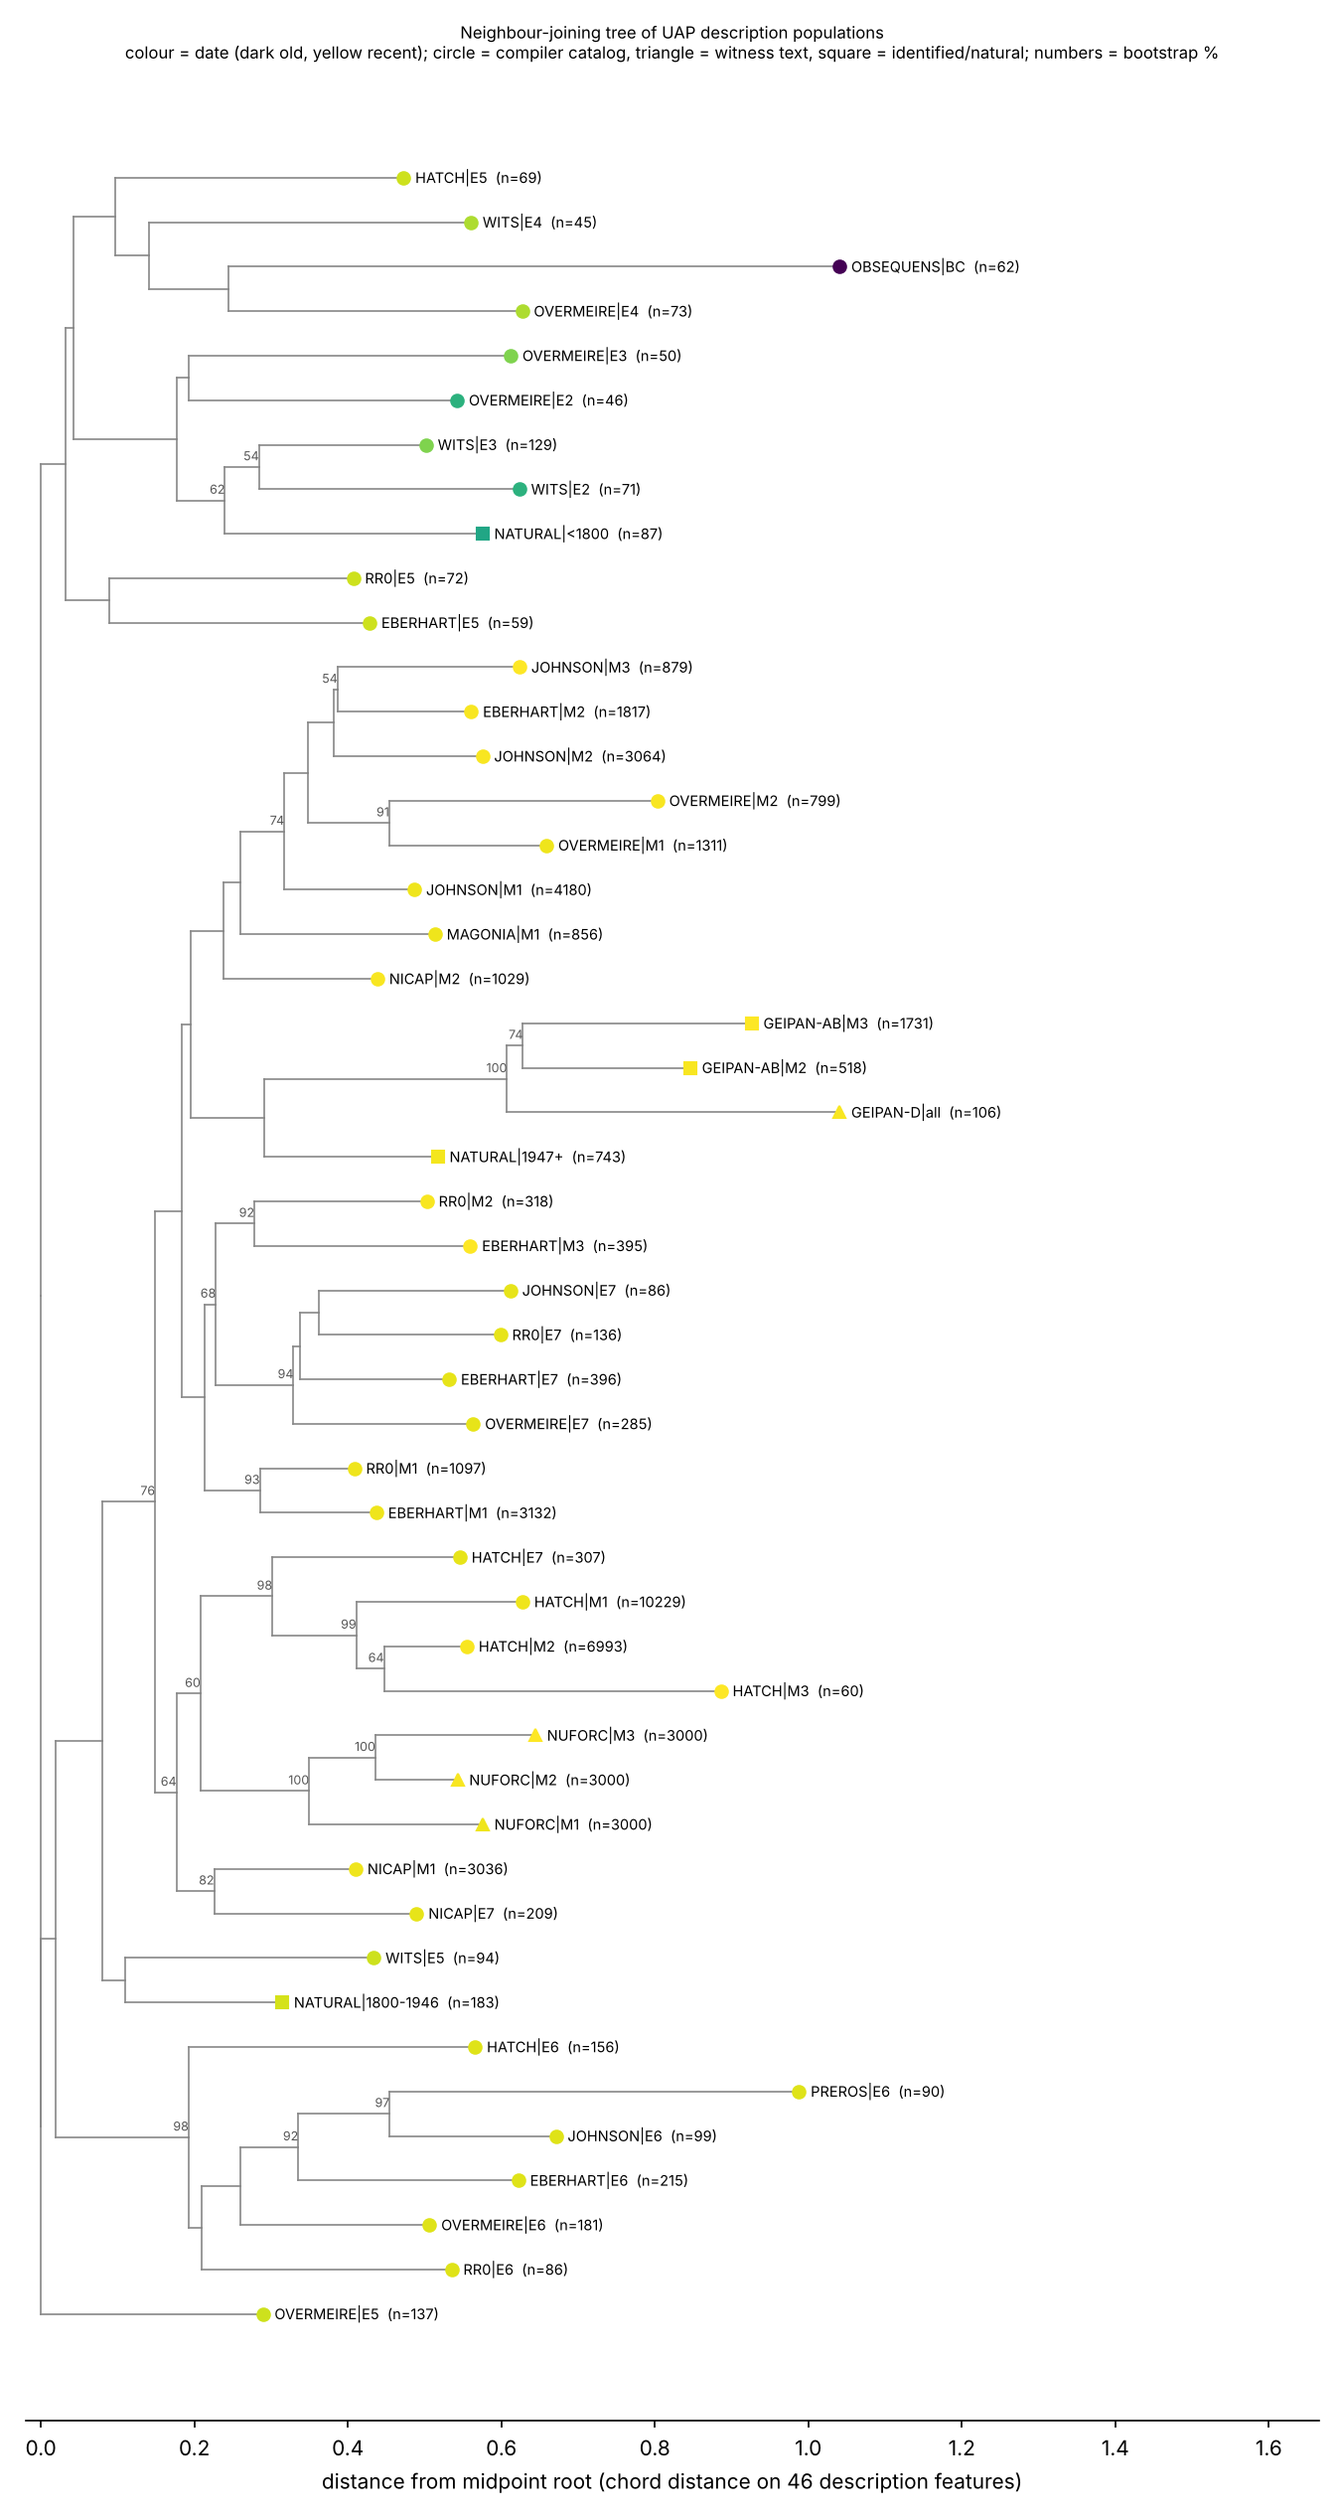
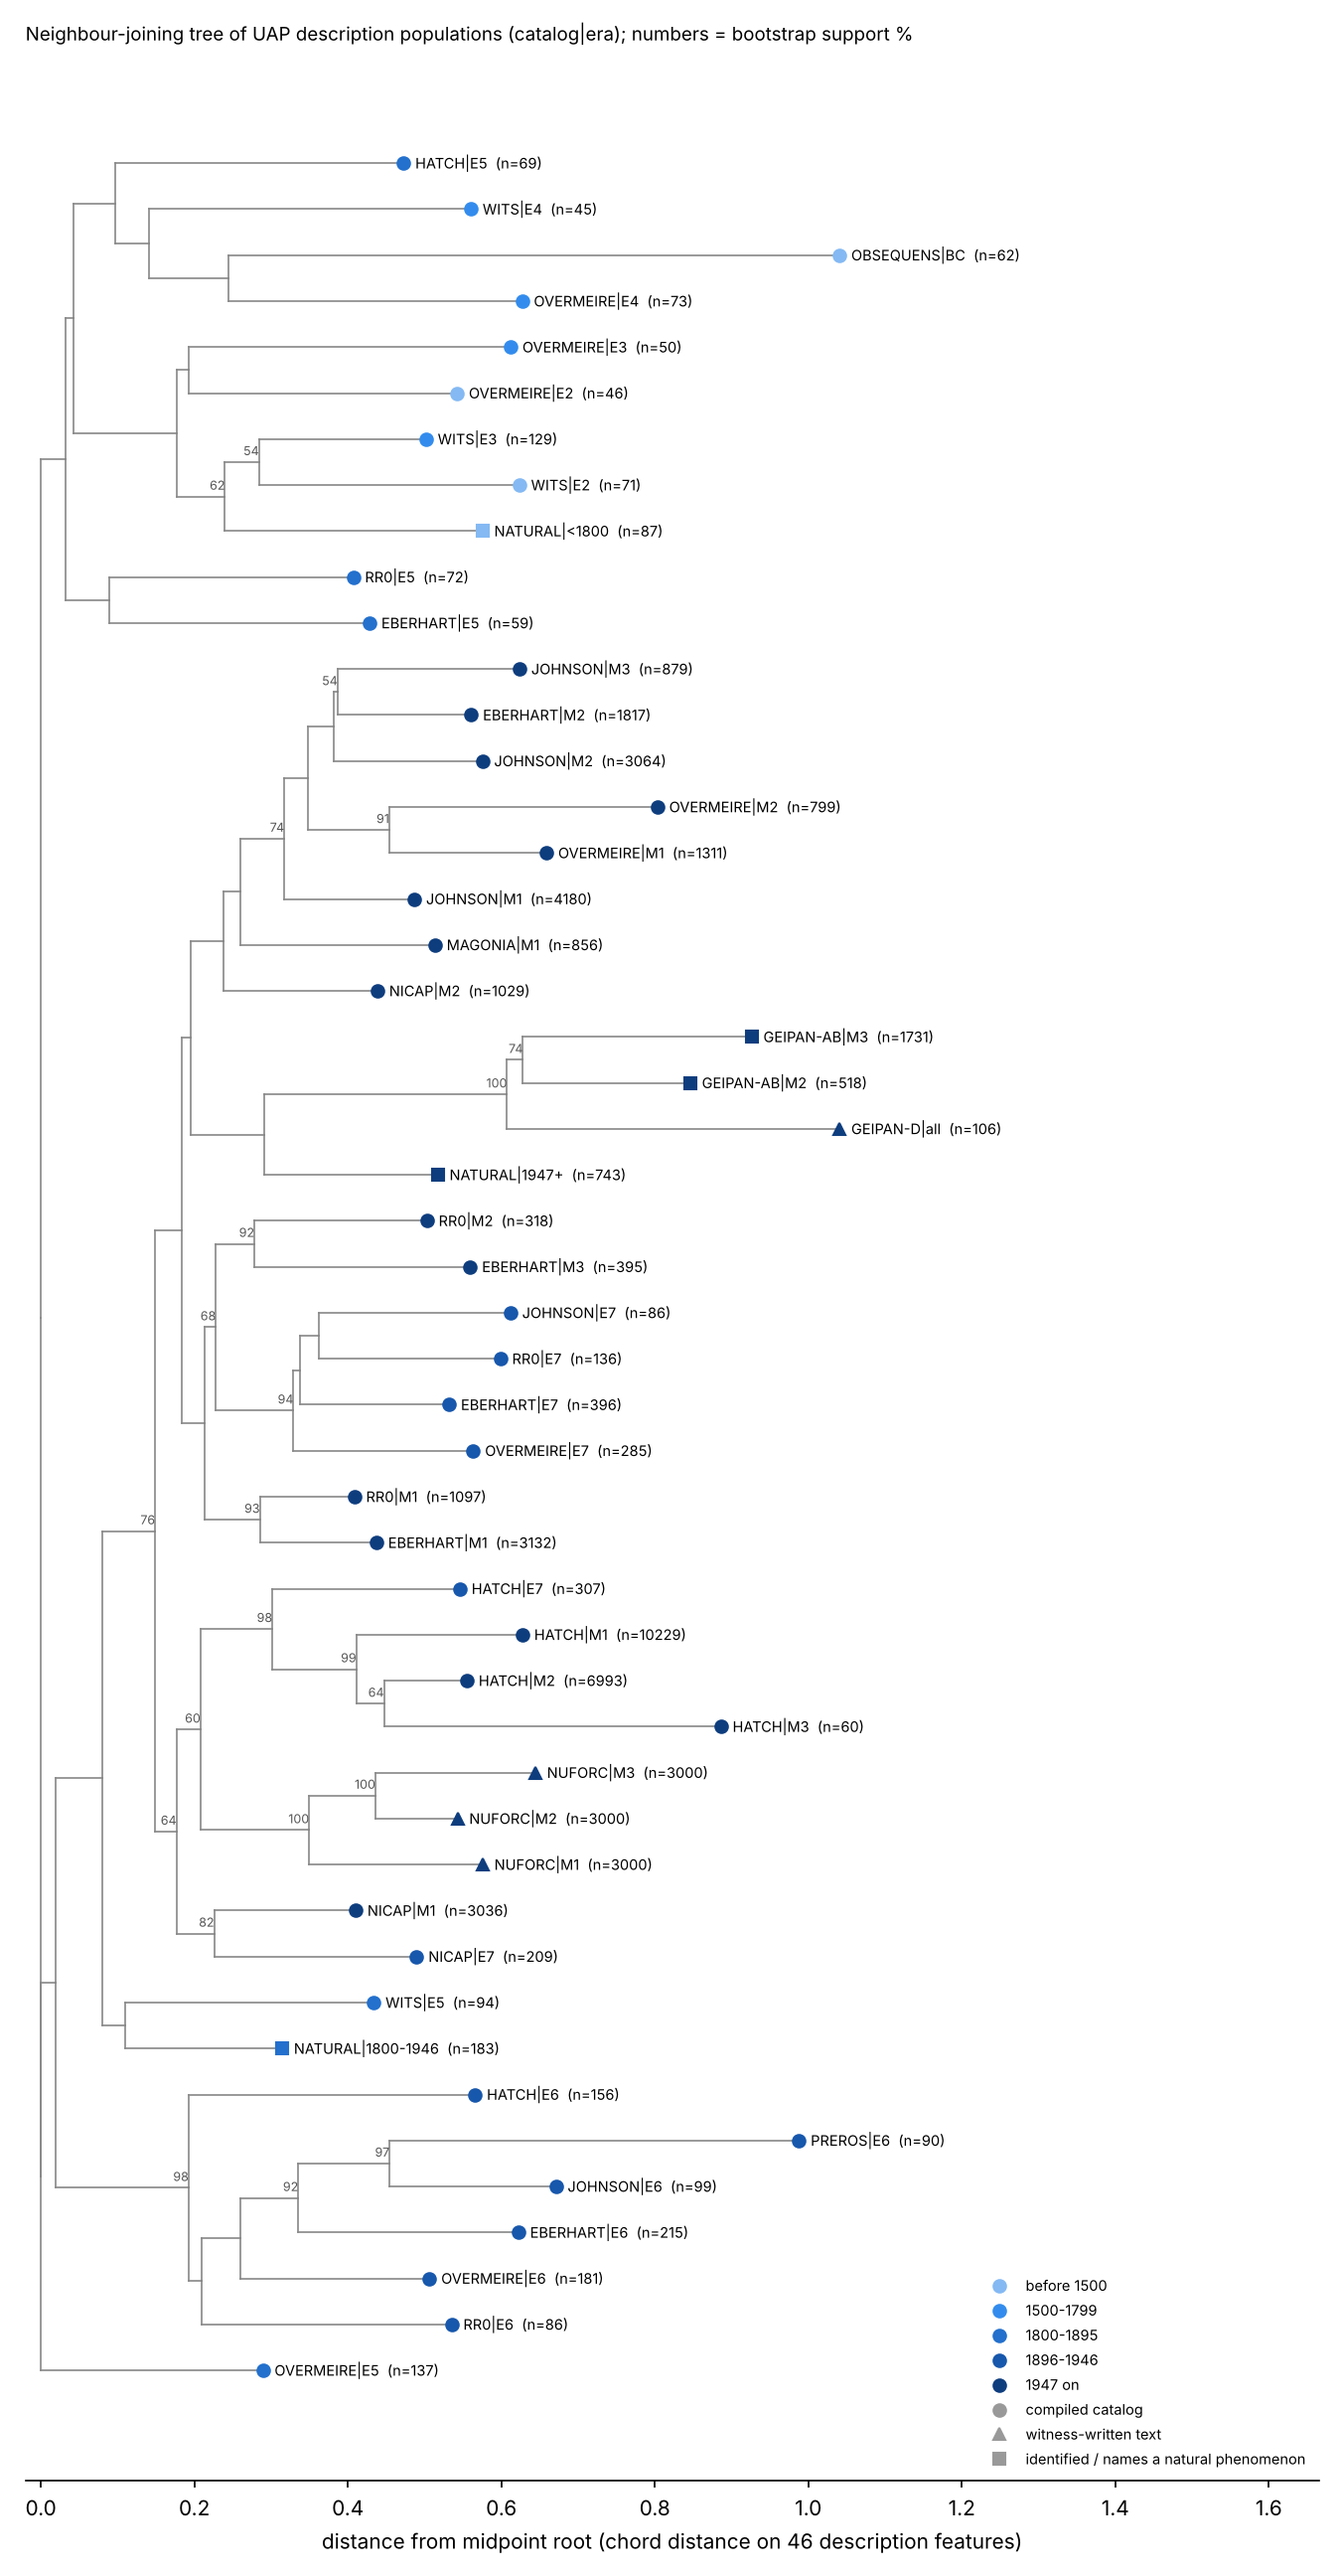
omega/deeptime: figures (convergence map, drift forest, technology words, shapes by decade, tree)
Claude-Session: https://claude.ai/code/session_011NzXvtVqgf9EMHsZNktDyy

diff --git a/omega/deeptime/figures.py b/omega/deeptime/figures.py
@@ -1,0 +1,163 @@
+"""Figures for the deep-time report (static PNG, light surface). Reads drift.json and tech.json from
+data/processed/deeptime and the corpus for the decade series. Colours: categorical slots 1-2 of the
+validated default palette (blue #257de0, orange #f47230), sequential/ordinal blue ramp; checked with the
+dataviz validator. Orange sits below 3:1 on white, so every orange series is also labelled in the legend.
+"""
+import collections, json, math, os, sys
+import numpy as np
+import matplotlib
+matplotlib.use('Agg')
+import matplotlib.pyplot as plt
+from matplotlib.colors import LinearSegmentedColormap
+sys.path.insert(0, os.path.dirname(os.path.abspath(__file__)))
+from common import load, P, ROOT, ERA_NAMES, CATALOGS  # noqa: E402
+from lexicon import PHYS, OLD_FRAMES, TECH_FRAMES, ENTITY_F  # noqa: E402
+
+BLUE, ORANGE, INK, INK2, GRID = '#257de0', '#f47230', '#191919', '#666666', '#e6e6e6'
+SEQ = LinearSegmentedColormap.from_list('blue', ['#ffffff', '#cce3fd', '#84b9f3', '#338ced', '#2370cd', '#1757ac', '#0e3d7e'])
+FIG = os.path.join(ROOT, 'omega', 'reports', 'figures')
+os.makedirs(FIG, exist_ok=True)
+plt.rcParams.update({'font.size': 8, 'axes.edgecolor': INK2, 'axes.labelcolor': INK, 'xtick.color': INK2, 'ytick.color': INK2,
+                     'axes.titlesize': 9, 'axes.titlecolor': INK, 'legend.frameon': False})
+drift = json.load(open(os.path.join(P, 'drift.json')))
+tech = json.load(open(os.path.join(P, 'tech.json')))
+LABEL = {'f_celestial': 'like a star/moon/sun', 'f_comet': 'comet', 'f_martial': 'shields/swords/armies', 'f_religious': 'cross/angel/omen',
+         'f_creature': 'dragon/serpent/bird', 'f_maritime': 'ship/boat/vessel', 'f_torch': 'torch/firebrand', 'f_wheel': 'wheel/chariot',
+         'f_balloon': 'balloon', 'f_airship': 'airship/searchlight', 'f_aircraft': 'aircraft/plane', 'f_rocket': 'rocket',
+         'f_saucer': 'saucer', 'f_space': 'spaceship/alien', 'f_satellite': 'satellite', 'f_starlink': 'Starlink/satellite train',
+         'f_drone': 'drone', 'f_lantern': 'lantern', 'e_occupant': 'occupants/beings', 'e_effect': 'heat/smell/paralysis',
+         'size_large': 'large', 'size_small': 'small', 'red_orange': 'red/orange', 'green_blue': 'green/blue'}
+
+
+def lab(f):
+    return LABEL.get(f, f)
+
+
+# 1 ---------------------------------------------------------------- temporal convergence map
+rows = (['f_celestial', 'f_religious', 'f_martial', 'f_creature', 'f_maritime', 'f_torch', 'f_wheel', 'fireball'] +
+        ['f_balloon', 'f_airship', 'f_aircraft', 'f_saucer', 'f_space'] +
+        ['disc', 'cigar', 'sphere', 'oval', 'triangle', 'metallic', 'formation'] +
+        ['light', 'glow', 'beam', 'flashing', 'red_orange', 'white', 'hover', 'fast', 'erratic', 'vanish', 'silent', 'landing', 'e_occupant'])
+std = drift['standardised_prevalence']
+eras = [e for e in ERA_NAMES if e in std['disc']]
+M = np.array([[std[f][e] for e in eras] for f in rows])
+Mn = M / M.max(1, keepdims=True)
+fig, ax = plt.subplots(figsize=(8.6, 9.2))
+ax.imshow(Mn, cmap=SEQ, aspect='auto', vmin=0, vmax=1)
+for i in range(len(rows)):
+    for j in range(len(eras)):
+        v = 100 * M[i, j]
+        ax.text(j, i, f'{v:.0f}' if v >= 1 else f'{v:.1f}', ha='center', va='center', fontsize=6.5,
+                color='#ffffff' if Mn[i, j] > 0.6 else INK)
+ax.set_xticks(range(len(eras)))
+ax.set_xticklabels([e.replace(' ', '\n', 1) for e in eras], fontsize=7)
+ax.set_yticks(range(len(rows)))
+ax.set_yticklabels([lab(f) for f in rows], fontsize=7.5)
+for y in (7.5, 12.5, 19.5):
+    ax.axhline(y, color='#ffffff', lw=3)
+ax.set_title('Temporal convergence map: % of unexplained reports using each descriptor, by era\n'
+             '(standardised to the same mix of nine catalogs; shading = share of the row\'s maximum)', loc='left')
+ax.tick_params(length=0)
+for s in ax.spines.values():
+    s.set_visible(False)
+fig.tight_layout()
+fig.savefig(os.path.join(FIG, 'deeptime_convergence_map.png'), dpi=150)
+plt.close(fig)
+
+# 2 ---------------------------------------------------------------- ancient vs modern odds ratios (forest)
+ORu = drift['ancient_vs_modern_adjusted_OR']['OR']
+ORn = drift['ancient_vs_modern_MH_OR']['natural']
+feats = [f for f in PHYS + OLD_FRAMES + ['f_balloon', 'f_airship', 'f_aircraft', 'f_saucer'] + ENTITY_F
+         if ORu.get(f) and ORu[f][0] == ORu[f][0]]
+feats.sort(key=lambda f: ORu[f][0])
+fig, ax = plt.subplots(figsize=(6.4, 0.2 * len(feats) + 1.4))
+ys = np.arange(len(feats))
+for k, (src, col, off, name) in enumerate(((ORu, BLUE, -0.15, 'unexplained reports (length-adjusted, within catalog)'),
+                                          (ORn, ORANGE, 0.15, 'reports naming a natural phenomenon (Mantel-Haenszel)'))):
+    xs, lo, hi, yy = [], [], [], []
+    for i, f in enumerate(feats):
+        o = src.get(f)
+        if o and o[0] == o[0] and o[1] > 0 and math.isfinite(o[2]):
+            xs.append(o[0]); lo.append(o[1]); hi.append(min(o[2], 200)); yy.append(i + off)
+    ax.hlines(yy, lo, hi, color=col, lw=1.4)
+    ax.plot(xs, yy, 'o', color=col, ms=4.5, label=name, markeredgecolor='#ffffff', markeredgewidth=0.8)
+ax.axvspan(0.5, 2.0, color='#f2f2f2', zorder=0)
+ax.axvline(1, color=INK2, lw=0.8)
+ax.set_xscale('log')
+ax.set_xlim(0.02, 60)
+ax.set_yticks(ys); ax.set_yticklabels([lab(f) for f in feats])
+ax.set_xlabel('odds ratio, before 1800 vs after 1947 (log scale; grey band 0.5-2 = "stable")')
+ax.set_title('Which descriptors drifted over 2,000 years?\nleft of 1 = more common in modern reports, right = more common before 1800', loc='left')
+ax.grid(axis='x', color=GRID, lw=0.6)
+ax.legend(loc='lower right', fontsize=7)
+for s in ('top', 'right'):
+    ax.spines[s].set_visible(False)
+fig.tight_layout()
+fig.savefig(os.path.join(FIG, 'deeptime_ancient_vs_modern.png'), dpi=150)
+plt.close(fig)
+
+# 3 ---------------------------------------------------------------- technology words vs the year the technology appeared
+FEATS, R = load()
+CAT = [r for r in R if r['cat'] in CATALOGS and not r['natural']]
+NUF = [r for r in R if r['cat'] == 'NUFORC_MODERN']
+
+
+def series(rs, f, y0, y1, step):
+    by = collections.defaultdict(lambda: [0, 0])
+    for r in rs:
+        if y0 <= r['year'] < y1:
+            b = by[(r['year'] - y0) // step * step + y0]
+            b[0] += 1; b[1] += f in r['fs']
+    xs = sorted(k for k, v in by.items() if v[0] >= 30)
+    return xs, [1000 * by[x][1] / by[x][0] for x in xs]
+
+
+panels = [('f_balloon', 1700, 1950, 10), ('f_airship', 1800, 1960, 10), ('f_aircraft', 1850, 2010, 10), ('f_saucer', 1900, 2010, 5),
+          ('f_satellite', 1930, 2024, 5), ('f_drone', 1995, 2024, 1), ('f_starlink', 2005, 2024, 1)]
+fig, axs = plt.subplots(len(panels), 1, figsize=(6.4, 1.45 * len(panels) + 0.6))
+for ax, (f, y0, y1, st) in zip(axs, panels):
+    t0 = tech['A_tech_frames'][f]['t0']
+    x, y = series(CAT, f, y0, y1, st)
+    ax.plot([v + st / 2 for v in x], y, '-', color=BLUE, lw=2, label='compiled catalogs')
+    if y0 >= 1930:
+        x2, y2 = series(NUF, f, max(y0, 1950), y1, st)
+        ax.plot([v + st / 2 for v in x2], y2, '-', color=ORANGE, lw=2, label='NUFORC witness reports')
+    ax.axvline(t0, color=INK, lw=0.9, ls='--')
+    ax.text(t0, ax.get_ylim()[1] * 0.92, f' {t0}', fontsize=7, color=INK, va='top')
+    ax.set_ylabel('per 1,000', fontsize=7)
+    ax.set_title(f'"{lab(f)}": first public appearance {t0} ({tech["A_tech_frames"][f]["event"].split(";")[0].split("(")[0].strip()})',
+                 loc='left', fontsize=8)
+    ax.grid(axis='y', color=GRID, lw=0.6)
+    for s in ('top', 'right'):
+        ax.spines[s].set_visible(False)
+axs[0].legend(loc='upper left', fontsize=7)
+axs[-2].legend(loc='upper left', fontsize=7)
+fig.suptitle('Technology words in UAP reports switch on when the technology appears', x=0.02, ha='left', fontsize=10)
+fig.tight_layout()
+fig.savefig(os.path.join(FIG, 'deeptime_tech_frames.png'), dpi=150)
+plt.close(fig)
+
+# 4 ---------------------------------------------------------------- shapes by decade, one compiler vs witnesses
+B = tech['B_congruent_by_decade']
+shp = [('cigar', 'cigar/cylinder'), ('beam', 'beam/searchlight'), ('disc', 'disc/saucer'), ('triangle', 'triangle'),
+       ('sphere', 'sphere/orb'), ('formation', 'formation/line')]
+fig, axs = plt.subplots(2, 3, figsize=(8.6, 4.6), sharex=True)
+for ax, (f, name) in zip(axs.flat, shp):
+    for src, col, nm in (('HATCH', BLUE, 'Hatch database (one compiler)'), ('NUFORC', ORANGE, 'NUFORC (witness text)')):
+        xs = [int(d) + 5 for d in B[src]]; v = [100 * B[src][d][f][0] for d in B[src]]
+        lo = [100 * B[src][d][f][1] for d in B[src]]; hi = [100 * B[src][d][f][2] for d in B[src]]
+        ax.fill_between(xs, lo, hi, color=col, alpha=0.15, lw=0)
+        ax.plot(xs, v, '-o', color=col, lw=2, ms=3.5, label=nm)
+    ax.set_title(name, loc='left')
+    ax.grid(axis='y', color=GRID, lw=0.6)
+    for s in ('top', 'right'):
+        ax.spines[s].set_visible(False)
+for ax in axs[:, 0]:
+    ax.set_ylabel('% of reports')
+axs[0, 0].legend(loc='upper right', fontsize=6.5)
+fig.suptitle('Shapes follow the era: airship-wave cigars and searchlights, 1947 discs, 1980s-90s triangles, 2010s orbs and lines',
+             x=0.02, ha='left', fontsize=9)
+fig.tight_layout()
+fig.savefig(os.path.join(FIG, 'deeptime_shapes_by_decade.png'), dpi=150)
+plt.close(fig)
+print('figures written to', FIG)

diff --git a/omega/deeptime/tree.py b/omega/deeptime/tree.py
@@ -311,9 +311,15 @@ def draw(path):
         ypos[x] = (min(ys) + max(ys)) / 2
         return ypos[x]
     yof(root)
-    fig, ax = plt.subplots(figsize=(9, 0.32 * N + 1.2))
-    cmap = plt.get_cmap('viridis')
-    tmin, tmax = tv.min(), tv.max()
+    fig, ax = plt.subplots(figsize=(9, 0.32 * N + 1.6))
+    # ordinal blue ramp, 5 era groups (validated: monotone lightness, visible steps), oldest lightest
+    RAMP = ['#84b9f3', '#338ced', '#2370cd', '#1757ac', '#0e3d7e']
+    GROUPS = [(-1e9, 1500, 'before 1500'), (1500, 1800, '1500-1799'), (1800, 1896, '1800-1895'), (1896, 1947, '1896-1946'), (1947, 1e9, '1947 on')]
+
+    def era_col(t):
+        for k, (a, b, _) in enumerate(GROUPS):
+            if a <= t < b:
+                return RAMP[k]
     for x in depth:
         for c in children.get(x, []):
             ax.plot([depth[x], depth[x]], [ypos[x], ypos[c]], color='#888', lw=0.8)
@@ -331,14 +337,18 @@ def draw(path):
             if sp is not None and sp >= 0.5:
                 ax.text(depth[c], ypos[c] + 0.15, f'{int(round(100 * sp))}', fontsize=6, color='#555', ha='right')
     for i, n in enumerate(names):
-        col = cmap((tv[i] - tmin) / (tmax - tmin))
+        col = era_col(tv[i])
         mk = 's' if taxa[n]['natural'] else ('^' if taxa[n]['kind'] == 'witness' else 'o')
         ax.plot(depth[i], ypos[i], mk, color=col, ms=6)
         ax.text(depth[i] + 0.01, ypos[i], f' {n}  (n={len(taxa[n]["recs"])})', va='center', fontsize=7)
-    ax.set_yticks([]); ax.set_xlabel('distance from midpoint root (chord distance on 46 description features)')
-    ax.set_title('Neighbour-joining tree of UAP description populations\n'
-                 'colour = date (dark old, yellow recent); circle = compiler catalog, triangle = witness text, square = identified/natural; '
-                 'numbers = bootstrap %', fontsize=8)
+    ax.set_yticks([]); ax.set_xlabel(f'distance from midpoint root (chord distance on {len(CH)} description features)')
+    ax.set_title('Neighbour-joining tree of UAP description populations (catalog|era); numbers = bootstrap support %', fontsize=9, loc='left')
+    from matplotlib.lines import Line2D
+    hs = [Line2D([], [], marker='o', ls='', color=c, label=g[2]) for c, g in zip(RAMP, GROUPS)]
+    hs += [Line2D([], [], marker='o', ls='', color='#999', label='compiled catalog'),
+           Line2D([], [], marker='^', ls='', color='#999', label='witness-written text'),
+           Line2D([], [], marker='s', ls='', color='#999', label='identified / names a natural phenomenon')]
+    ax.legend(handles=hs, loc='lower right', fontsize=7, frameon=False)
     for sp in ('top', 'right', 'left'):
         ax.spines[sp].set_visible(False)
     xmax = max(depth.values())
